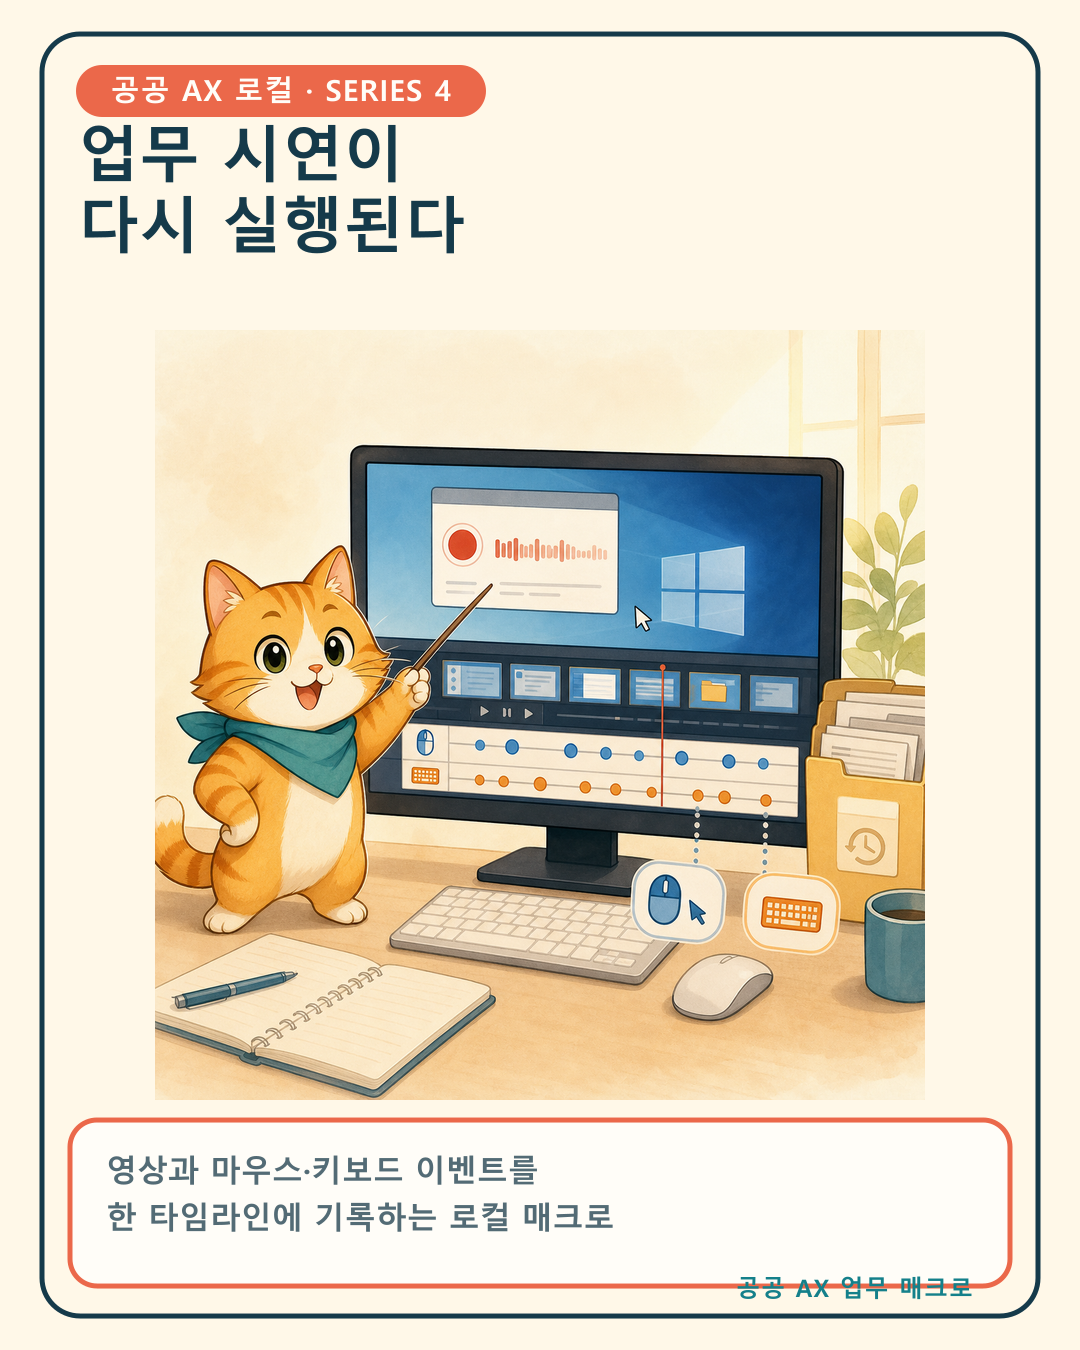
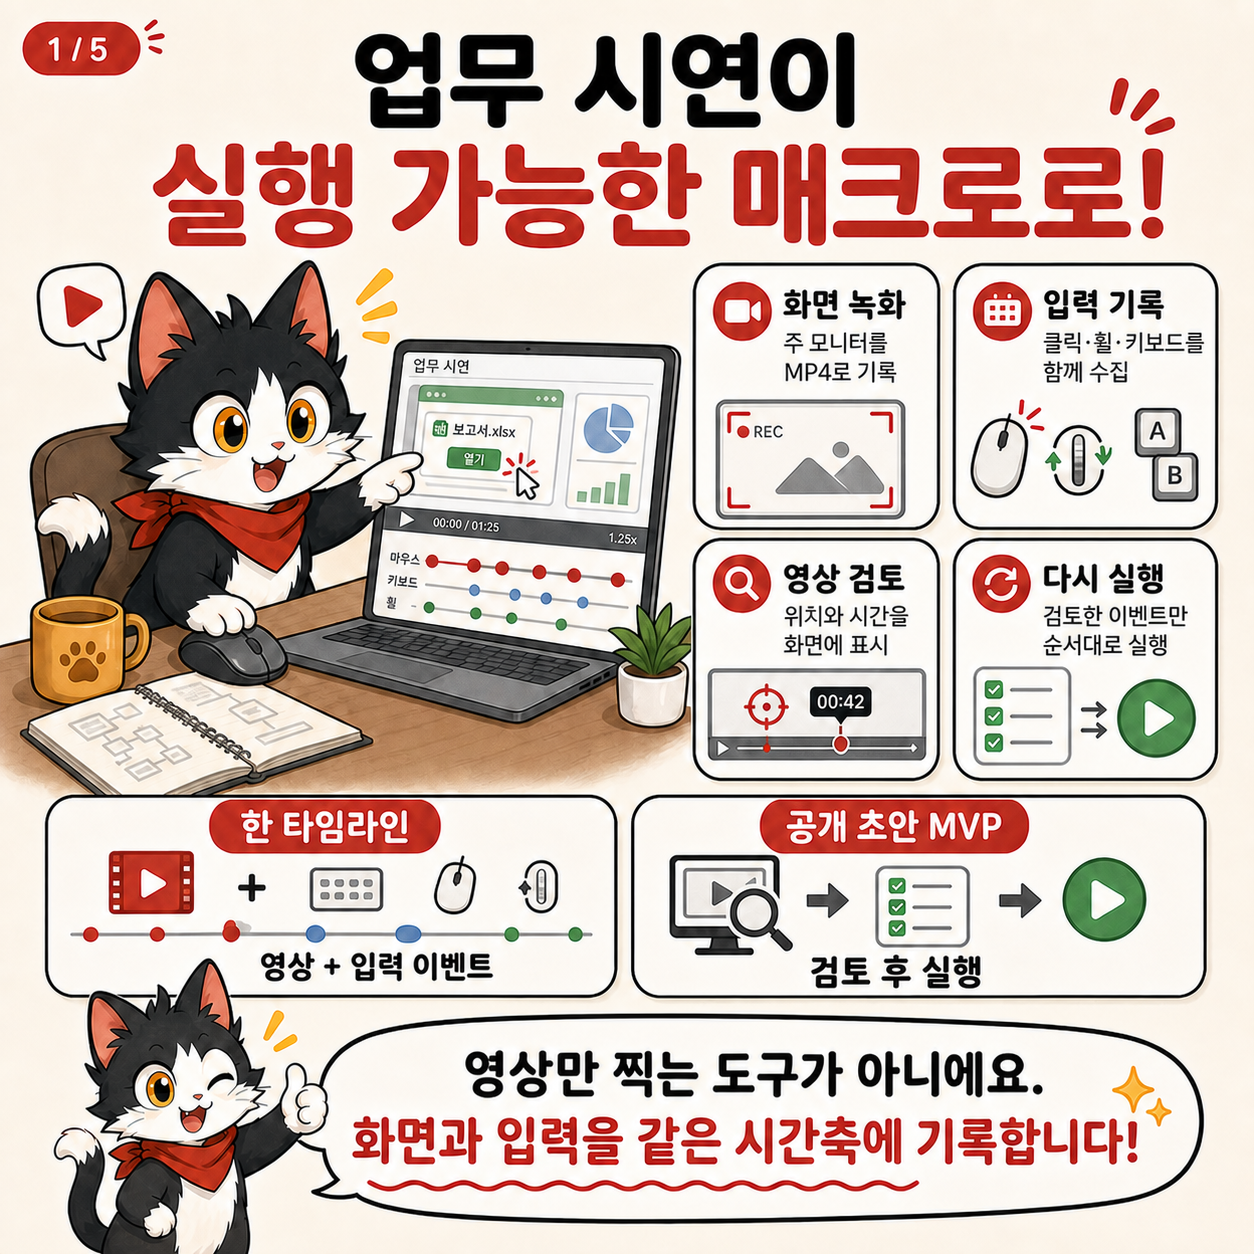
remake comic pages with GPT-generated infographics

diff --git a/docs/assets/series4-comic/README.md b/docs/assets/series4-comic/README.md
@@ -1,23 +1,17 @@
-# Series 4 고양이 안내 카드
+# 공공 AX 업무 매크로 Series 4 — GPT 생성형 만화
 
-최종 카드 5장은 1080×1350 PNG입니다.
+최종 카드 5장은 모두 1254×1254 정사각형 PNG입니다. 삽화와 한글, 기능 카드,
+말풍선을 한 장 전체로 GPT 이미지 생성해 같은 만화형 인포그래픽 문법으로 구성했습니다.
 
-1. `01-cover.png` — 제품 개요
-2. `02-record.png` — 지연 녹화와 업무 시연
-3. `03-events.png` — 영상과 입력 이벤트 연결
-4. `04-library.png` — 날짜별 기록 저장소
-5. `05-safety.png` — 긴급중지와 검토 경계
+1. `01-cover.png` — 화면과 입력 이벤트를 한 타임라인에 기록
+2. `02-record.png` — 시작 지연 후 업무 시연과 동시 수집
+3. `03-events.png` — 영상 위 이벤트 확인·편집과 수동 추가
+4. `04-library.png` — 날짜별 기록 저장소와 다시 열기
+5. `05-safety.png` — 실행 전 검토와 긴급 중지
 
-`source/`의 그림은 이 프로젝트를 위해 새로 생성했으며, 참고 이미지는 포함하지
-않았습니다. 글자가 생성 과정에서 깨지지 않도록 제목과 설명은
-`scripts/build-series4-comic.mjs`가 후처리로 합성합니다.
-
-카드를 다시 만들려면 Node.js와 `sharp`가 필요합니다.
-
-```powershell
-npm install --no-save sharp
-node .\scripts\build-series4-comic.mjs
-```
+`source/`와 `scripts/build-series4-comic.mjs`는 이전 합성 방식의 작업 자료입니다.
+현재 최종 5장은 후처리 합성본이 아니라 GPT가 페이지 전체를 직접 생성한 결과이므로,
+이전 스크립트를 실행하면 현재 이미지와 다른 결과가 만들어집니다.
 
 이미지와 라이선스 범위는
 [`THIRD_PARTY_NOTICES.md`](../../../THIRD_PARTY_NOTICES.md)를 확인하세요.
